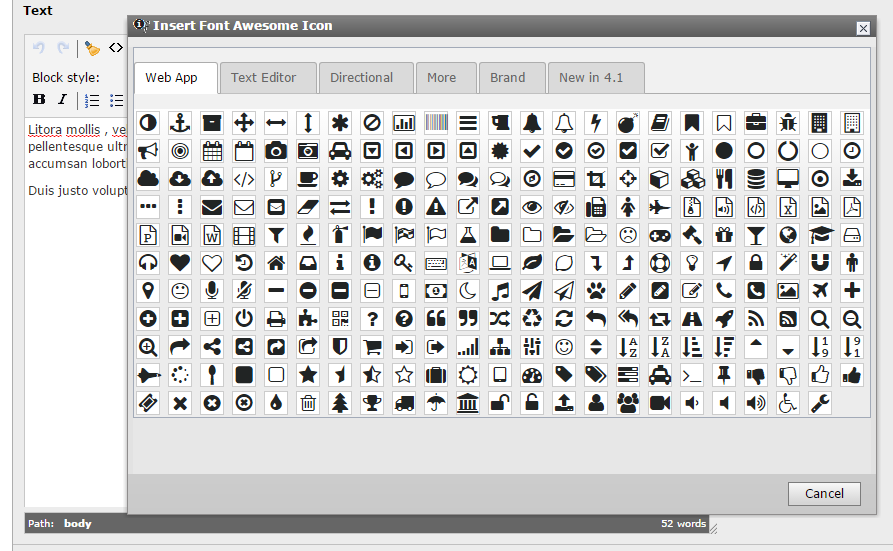
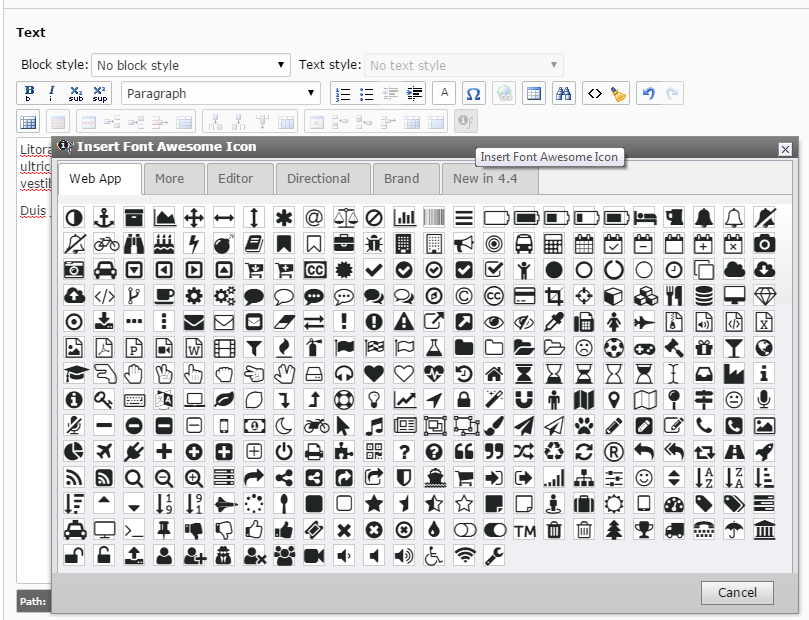
Screenshot updated, info about including fontawesome css in the RTE css

diff --git a/Documentation/Main/Administration/Index.rst b/Documentation/Main/Administration/Index.rst
@@ -27,3 +27,11 @@ Installation
 |img-includestatic|
 
 
+
+Include font-awesome CSS in RTE contentCSS file
+-----------------------------------------------
+
+In your css file for the RTE (RTE.default.contentCSS) the font-awesome.min.css has to be included to display added icons in the rich text editor.
+
+E.g.
+@import "/typo3conf/ext/iconfont/Resources/Public/Lib/font-awesome/css/font-awesome.min.css";
